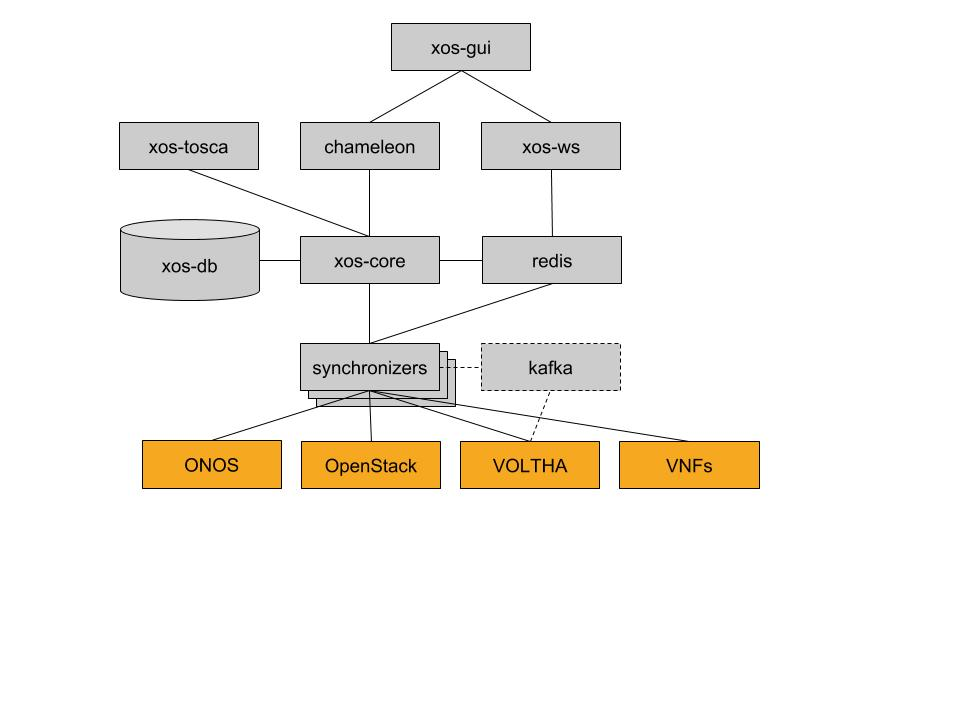
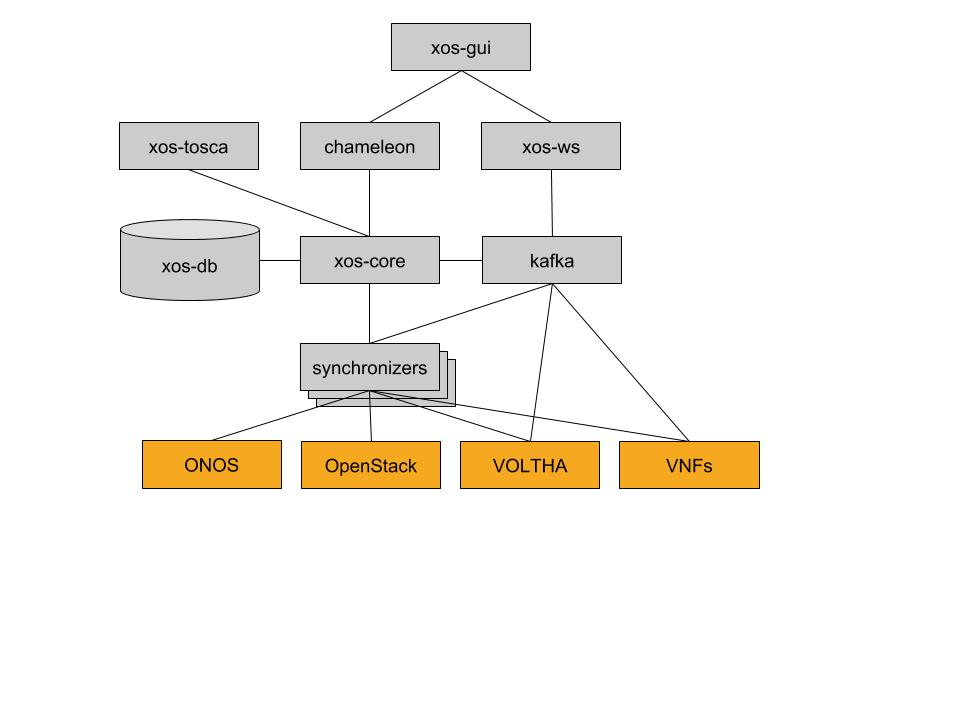
decouple from CORD guide

Changed region(s): [[0.5, 0.4583, 0.6562, 0.55], [0.5625, 0.3972, 0.5938, 0.4278], [0.5625, 0.3361, 0.5938, 0.3667]]

diff --git a/docs/install.md b/docs/install.md
@@ -10,8 +10,8 @@ XOS runs on any version of Kubernetes (1.10 or greater), and uses the
 Helm client-side tool. If you are new to Kubernetes, we recommend this [tutorial](https://kubernetes.io/docs/tutorials/) as a good place to start.
 
 Although you are free to set up Kubernetes and Helm in whatever way
-makes sense to you, the following walks you through an
-example installation sequence on  MacOS. It was tested on version 10.12.6.
+makes sense to you, the following walks through an example
+installation sequence on  MacOS. It was tested on version 10.12.6.
 
 ## Prerequisites
 
@@ -101,84 +101,124 @@ code, for example, so you can walk through the
 [XOS tutorial](tutorials/basic_synchronizer.md). The easiest way to do
 this uses the `repo` tool, as described [here](repo.md).
 
-## Bring Up XOS
+## Bring Up XOS 
 
-To deploy `xos-core` (plus affiliated micro-services) into your
+To deploy `xos-core` (plus affiliated micro-services) into your 
 Kubernetes cluster, execute the following from the `$SRC_DIR/helm-charts`
 directory:
 
-```shell
-helm dep update xos-core
-helm install xos-core -n xos-core
+```shell 
+helm dep update xos-core 
+helm install xos-core -n xos-core 
 ```
 
-Use `kubectl get pods` to verify that all containers that implement XOS
-are successfully running. You should see output that looks something
-like this:
+You also need to start the Kafka message bus to catch event 
+notifications send by the various components:
 
-```shell
-NAME                                           READY     STATUS    RESTARTS   AGE
-xos-chameleon-6f49b67f68-pdf6n                 1/1       Running   0          2m
-xos-core-57fd788db-8b97d                       1/1       Running   0          2m
-xos-db-f9ddc6589-rtrml                         1/1       Running   0          2m
-xos-gui-7fcfcd4474-prhfb                       1/1       Running   0          2m
-xos-redis-74c5cdc969-ppd7z                     1/1       Running   0          2m
-xos-tosca-7c665f97b6-krp5k                     1/1       Running   0          2m
-xos-ws-55d676c696-pxsqk                        1/1       Running   0          2m
+```shell 
+helm repo add incubator http://storage.googleapis.com/kubernetes-charts-incubator 
+helm install -f examples/kafka-single.yaml --version 0.8.8 -n cord-kafka incubator/kafka 
 ```
 
-## Bring Up a Service
+Use `kubectl get pods` to verify that all containers that implement XOS 
+(and Kafka) are successfully running. You should see output that looks 
+something like this:
 
-Optionally, you can bring up a simple service to be managed by XOS.
+```shell 
+NAME                             READY     STATUS    RESTARTS   AGE 
+cord-kafka-0                     1/1       Running   0          3m  
+cord-kafka-zookeeper-0           1/1       Running   0          3m  
+xos-chameleon-58c5b847d6-48jvf   1/1       Running   0          11m 
+xos-core-7dc45f677b-pzhm6        1/1       Running   0          11m 
+xos-db-c49549b7f-mzs4n           1/1       Running   0          11m 
+xos-gui-7c96669d8c-8zkhq         1/1       Running   0          11m 
+xos-tosca-7f6cf85657-gzddq       1/1       Running   0          11m 
+xos-ws-5f47ff7d94-xg9f5          1/1       Running   0          11m 
+```
+
+## Bring Up Monitoring and Logging 
+
+Although not required, we recommend that you also bring up two 
+auxilary services to capture and display monitoring and logging 
+information. This is done by executing the following Helm charts. 
+
+Monitoring (once running, access [Grafana](http://docs.grafana.org/) 
+Dashboard at port 31300):
+
+
+```shell 
+helm dep update nem-monitoring 
+helm install -n nem-monitoring nem-monitoring 
+```
+
+Logging (once running, access 
+[Kabana](https://www.elastic.co/guide/en/kibana/current/index.html) 
+Dashboard at port 30601):
+
+```shell 
+helm dep up logging 
+helm install -f examples/logging-single.yaml -n logging logging 
+```
+
+> **Note:** The `-f examples/logging-single.yaml` option says to 
+> not use persistent storage, which is fine for development or demo 
+> purposes, but not for operational deployments. 
+
+## Bring Up a Service 
+
+Optionally, you can bring up a simple service to be managed by XOS. 
 This involves deploying two additional helm charts: `base-kubernetes`
 and `demo-simpleexampleservice`. Again from the `$SRC_DIR/helm-charts`
 directory, execute the following:
 
-```shell
-helm dep update xos-profiles/base-kubernetes
-helm install xos-profiles/base-kubernetes -n base-kubernetes
-helm dep update xos-profiles/demo-simpleexampleservice
-helm install xos-profiles/demo-simpleexampleservice -n demo-simpleexampleservice
+```shell 
+helm dep update xos-profiles/base-kubernetes 
+helm install xos-profiles/base-kubernetes -n base-kubernetes 
+helm dep update xos-profiles/demo-simpleexampleservice 
+helm install xos-profiles/demo-simpleexampleservice -n demo-simpleexampleservice 
 ```
 
-> **Note:** It will take some time for the various helm charts to
-> deploy and the containers to come online. The `tosca-loader`
-> container may error and retry several times as it waits for
-> services to be dynamically loaded. This is normal, and eventually
-> the `tosca-loader` will enter the completed state.
+When all the containers are successfully up and running, `kubectl get 
+pod` will return output that looks something like this:
 
-As before, when all the containers are successfully up and running,
-`kubectl get pod` will return output that looks something like this:
 
-```shell
-NAME                                           READY     STATUS    RESTARTS   AGE
-base-kubernetes-kubernetes-55c55bd897-rn9ln    1/1       Running   0          2m
-base-kubernetes-tosca-loader-vs6pv             1/1       Running   1          2m
-demo-simpleexampleservice-787454b84b-ckpn2     1/1       Running   0          1m
-demo-simpleexampleservice-tosca-loader-4q7zg   1/1       Running   0          1m
-xos-chameleon-6f49b67f68-pdf6n                 1/1       Running   0          12m
-xos-core-57fd788db-8b97d                       1/1       Running   0          12m
-xos-db-f9ddc6589-rtrml                         1/1       Running   0          12m
-xos-gui-7fcfcd4474-prhfb                       1/1       Running   0          12m
-xos-redis-74c5cdc969-ppd7z                     1/1       Running   0          12m
-xos-tosca-7c665f97b6-krp5k                     1/1       Running   0          12m 
-xos-ws-55d676c696-pxsqk                        1/1       Running   0          12m 
+```shell 
+NAME                                           READY     STATUS    RESTARTS   AGE 
+base-kubernetes-kubernetes-75d68b65bc-h594m    1/1       Running     0          6m 
+base-kubernetes-tosca-loader-ltdzg             0/1       Completed   4          6m 
+cord-kafka-0                                   1/1       Running     1          15m 
+cord-kafka-zookeeper-0                         1/1       Running     0          15m 
+demo-simpleexampleservice-cc8fbfb7-s4r68       1/1       Running     0          5m 
+demo-simpleexampleservice-tosca-loader-46qtg   0/1       Completed   4          5m 
+xos-chameleon-58c5b847d6-rcqff                 1/1       Running     0          16m 
+xos-core-7dc45f677b-27vc9                      1/1       Running     0          16m 
+xos-db-c49549b7f-589n6                         1/1       Running     0          16m 
+xos-gui-7c96669d8c-gcwsv                       1/1       Running     0          16m 
+xos-tosca-7f6cf85657-bf276                     1/1       Running     0          16m 
+xos-ws-5f47ff7d94-mpn7g                        1/1       Running     0          16m 
 ```
 
-## Visit XOS Dashboard
+The two `tosca-loader` items with `Completed` status are jobs, as 
+opposed to pods. Their job is to load TOSCA-based provisioning and 
+configuration information into XOS, and so they run to complettion and 
+then terminate. It is not uncommon to see them in an `Error` state as 
+they retry while waiting for the corresponding services to come 
+on-line. 
+
+## Visit XOS Dashboard 
 
 Finally, to view the XOS dashboard, run the following:
 
-```shell
-minikube service xos-gui
+```shell 
+minikube service xos-gui 
 ```
 
-This will launch a window in your default browser. Administrator login
-and password are defined in `$SRC_DIR/helm-charts/xos-core/values.yaml`.
+This will launch a window in your default browser. Administrator login 
+and password are defined in `$SRC_DIR/helm-charts/xos-core/values.yaml`. 
 
-## Next Steps
+## Next Steps 
 
-This completes the installation process. At this point, you can either
-drill down on the internals of
+This completes the installation process. At this point, you can either 
+drill down on the internals of 
 [Simple Example Service](simpleexampleservice/simple-example-service.md),
 or you can work through the [XOS tutorial](tutorials/basic_synchronizer.md).

diff --git a/docs/xos_internals.md b/docs/xos_internals.md
@@ -8,18 +8,14 @@ APIs. The following is an inventory of those containers:
 | ---- | ----------- | ----- |
 | xos-core | The core of the platform; responsible for maintaining the data model | 50051, 500515 |
 | xos-db | A Postgres instance; used to persist the data model | 5432 |
-| xos-redis | A Redis instance; used as pub/sub channel for internal notifications | 5432 |
 | xos-tosca | Northbound TOSCA interface; accessible via REST | 9102|
 | xos-gui | Northbound GUI dashboard| 4000|
-| xos-ws | Listens to `redis` events and propagates them over web-sockets | 3000|
+| xos-ws | Listens to `kafka` events and propagates them over web-sockets | 3000|
 | xos-chameleon | Northbound REST interface; accessible at `/xosapi/v1/..` (`swagger` is published at `/apidocs/`| 3000|
-| kafka | A Kafka bus; used by some backend components to send event notifications | 9092|
+| kafka | A Kafka bus; used to send event notifications | 9092|
 
 All the communication between containers happen over `gRPC` except for
 `xos-gui`, which uses a combination of REST and web-socket.
-
-> **Note:** The dotted lines identify optional components that are
-> required only in certain configurations.
 
 ![xos-containers](./static/xos_components.jpg)
 

diff --git a/docs/dev/workflow_pod.md b/docs/dev/workflow_pod.md
@@ -24,29 +24,29 @@ into it:
 2. Teardown the existing XOS installation and clean up OpenStack to
    remove any leftover instances or networks:
 
-    ```
-    cd ~/cord/build
-    make xos-teardown
-    make clean-openstack
-    ```
+```shell
+cd ~/cord/build
+make xos-teardown
+make clean-openstack
+```
 
 3. Optional: Teardown ONOS. Sometimes we find it helpful to reinstall the
    onos-cord and onos-fabric containers, to ensure that all state is wiped
    clean from ONOS.
 
-    ```
-    cd ~/cord/build
-    make clean-onos
-    ```
+```shell
+cd ~/cord/build
+make clean-onos
+```
 
 4. Build the new XOS container images and deploy to the pod.
 
-    ```
-    cd ~/cord/build
-    make -j4 build
-    make compute-node-refresh
-    make pod-test
-    ```
+```shell
+cd ~/cord/build
+make -j4 build
+make compute-node-refresh
+make pod-test
+```
 
 5. Test and verify your changes.
 

diff --git a/docs/tutorials/basic_synchronizer.md b/docs/tutorials/basic_synchronizer.md
@@ -314,6 +314,7 @@ You will see the TOSCA definition for the `HelloWorldService` model.
 You can use that (and the `HelloWorldServiceInstance` model definition
 too) to create an instance of both models. For your convenience, save
 the following content to a file called `hello-world-tosca.yaml`
+
 ```yaml
 tosca_definitions_version: tosca_simple_yaml_1_0
 imports:

diff --git a/docs/SUMMARY.md b/docs/SUMMARY.md
@@ -5,6 +5,7 @@
 * [Installing XOS](install.md)
     * [Download Source Code](repo.md)
     * [XOS Containers](xos_internals.md)
+    * [XOS Configuration](modules/xosconfig.md)
 * [Using XOS](use.md)
     * [XOS Modeling Framework](dev/xproto.md)
         * [XOS Tool Chain (Internals)](dev/xosgenx.md)
